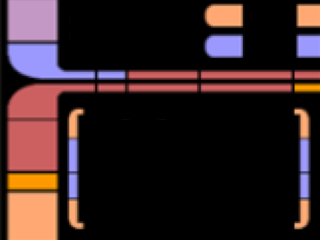
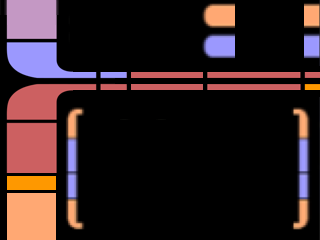
Cleaner background

diff --git a/src/entities/day.py b/src/entities/day.py
@@ -4,26 +4,27 @@ import sdl2.ext as sdl2ext
 from sdl2 import (timer, SDL_Event, SDL_UserEvent,
                   SDL_USEREVENT, SDL_PushEvent)
 from textsprite import TextSprite
-from constants import DEPTH_TIME
+from constants import DEPTH_TIME, ORANGE
 
 
-def get_date():
-    return datetime.now().strftime("%d %b").upper()
+def get_day():
+    return datetime.now().strftime("%a").upper()
 
 
-class Date(sdl2ext.Entity):
+class Day(sdl2ext.Entity):
     def __init__(self, world, *args, **kwargs):
         if "renderer" not in kwargs:
             raise ValueError("you have to provide a renderer= argument")
         renderer = kwargs['renderer']
-        # super(Date, self).__init__()
+        # super(Day, self).__init__()
         textSprite = TextSprite(
-            renderer, get_date(),
+            renderer, get_day(),
+            textColor=ORANGE,
             fontFile="Teko-Light.ttf",
-            fontSize=60)
+            fontSize=68)
         self.textSprite = textSprite
-        textSprite.x = 74
-        textSprite.y = -5
+        textSprite.x = 242
+        textSprite.y = -13
         textSprite.depth = DEPTH_TIME
 
         object.__setattr__(self, 'callback', self.getCallBackFunc())
@@ -32,7 +33,7 @@ class Date(sdl2ext.Entity):
 
     def update(self):
         pass
-        self.textsprite.text = get_date()
+        self.textsprite.text = get_day()
 
     def getCallBackFunc(self):
         def oneMinuteElapsed(time, userdata):

diff --git a/src/textsprite.py b/src/textsprite.py
@@ -2,16 +2,15 @@
 import sdl2.ext as sdl2ext
 from sdl2 import render, surface
 from sdl2.sdlttf import (TTF_OpenFont,
-                         TTF_RenderText_Shaded,
+                         TTF_RenderText_Blended,
                          TTF_GetError
                          )
-from constants import RESOURCES, WHITE, BLACK
+from constants import RESOURCES, WHITE
 
 
 class TextSprite(sdl2ext.TextureSprite):
     def __init__(self, renderer, text="", fontFile=None, fontSize=16,
-                 textColor=WHITE,
-                 backgroundColor=BLACK):
+                 textColor=WHITE):
         if isinstance(renderer, sdl2ext.Renderer):
             self.renderer = renderer.renderer
         elif isinstance(renderer, render.SDL_Renderer):
@@ -27,15 +26,14 @@ class TextSprite(sdl2ext.TextureSprite):
         self._text = text
         self.fontSize = fontSize
         self.textColor = textColor
-        self.backgroundColor = backgroundColor
         texture = self._createTexture()
 
         super(TextSprite, self).__init__(texture)
 
     def _createTexture(self):
-        textSurface = TTF_RenderText_Shaded(
+        textSurface = TTF_RenderText_Blended(
             self.font,
-            bytes(self._text, 'utf-8'), self.textColor, self.backgroundColor)
+            bytes(self._text, 'utf-8'), self.textColor)
         if textSurface is None:
             raise TTF_GetError()
         texture = render.SDL_CreateTextureFromSurface(

diff --git a/src/main.py b/src/main.py
@@ -7,7 +7,7 @@ from sdl2.sdlttf import TTF_Init, TTF_Quit
 from sdl2 import (SDLK_ESCAPE, SDL_Event, SDL_WaitEvent, SDL_QUIT,
                   SDL_KEYUP, SDL_USEREVENT, SDL_BLENDMODE_BLEND)
 from window import Window
-from entities import Time, Date, Background, Brightness
+from entities import Time, Date, Day, Background, Brightness
 import sdl2.ext as sdl2ext
 
 
@@ -26,6 +26,7 @@ def main():
     Background(world, renderer=renderer)
     Time(world, renderer=renderer)
     Date(world, renderer=renderer)
+    Day(world, renderer=renderer)
     Brightness(world, renderer=renderer)
 
     world.add_system(TextureSpriteRenderSystem(renderer))

diff --git a/src/constants.py b/src/constants.py
@@ -11,7 +11,7 @@ SCREEN_WIDTH = 320
 SCREEN_HEIGHT = 240
 RESOURCES = Resources(__file__, "../resources")
 GREEN = SDL_Color(52, 252, 3, 1)
-ORANGE = SDL_Color(152, 119, 1)  # 223, 174, 1
+ORANGE = SDL_Color(255, 153, 0)
 WHITE = SDL_Color(248, 253, 219)  # 255, 255, 255
 BLACK = SDL_Color(0, 0, 0)
 NS_USERNAME = environ.get('NS_USERNAME')

diff --git a/src/entities/__init__.py b/src/entities/__init__.py
@@ -2,5 +2,6 @@ from .background import Background
 from .brightness import Brightness
 from .time import Time
 from .date import Date
+from .day import Day
 
-__all__ = ['Background', 'Brightness', 'Time', 'Date']
+__all__ = ['Background', 'Brightness', 'Time', 'Date', 'Day']
